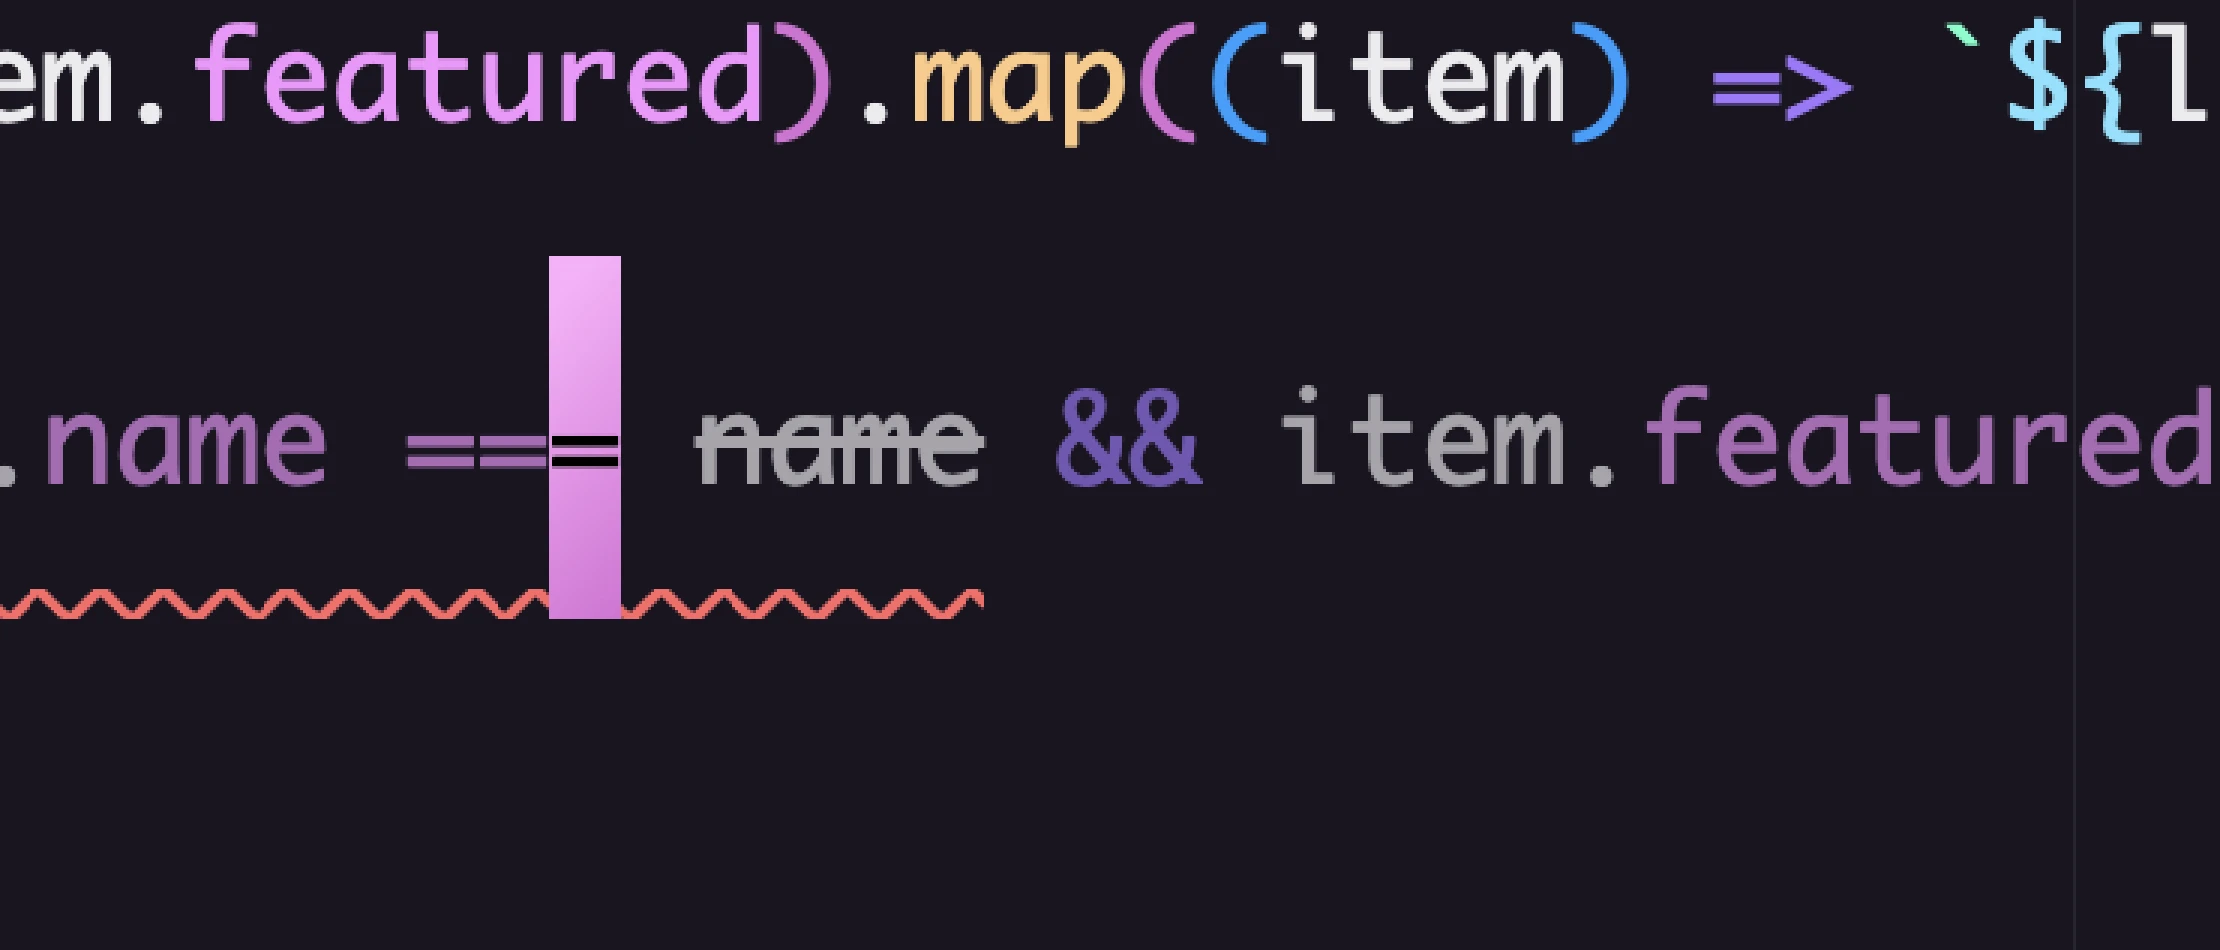
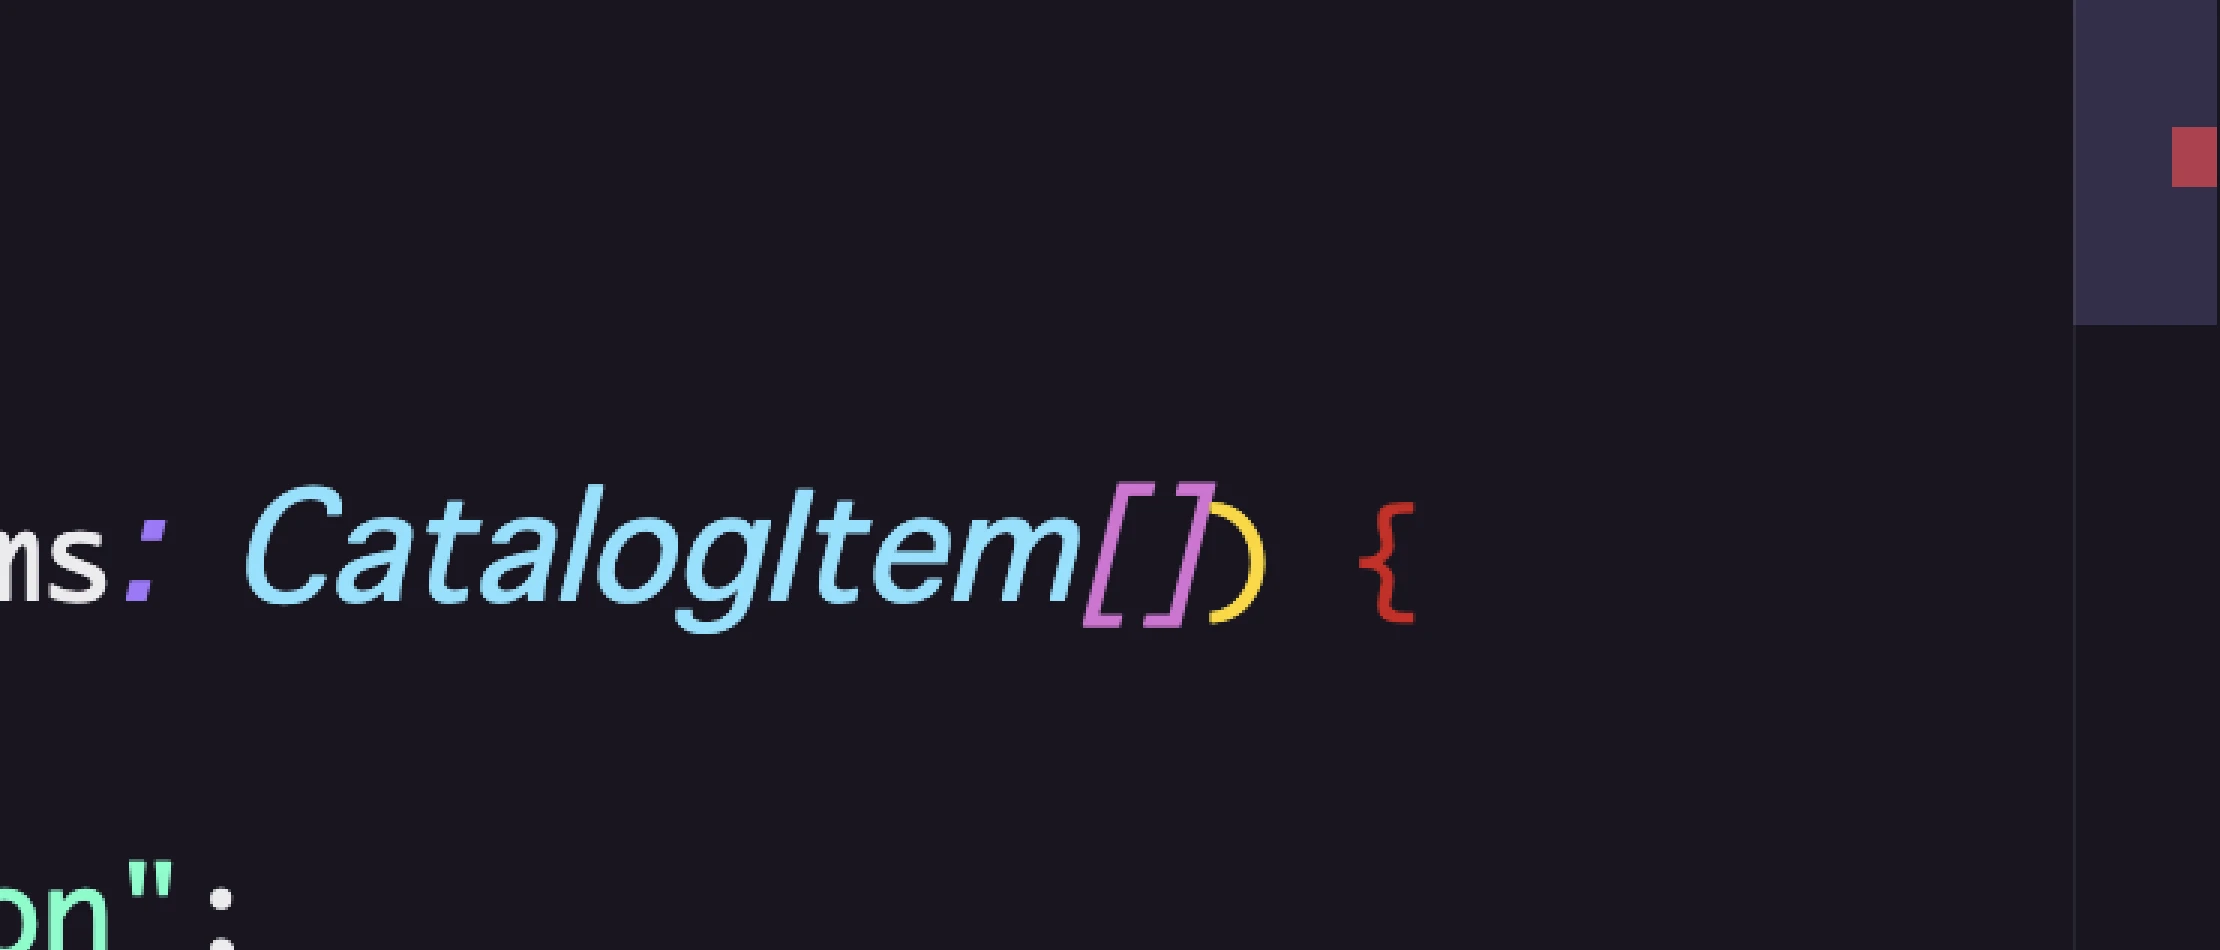
fix: align chapter 9 Git marker comparison

diff --git a/books/igorbabko-vscode-setup-2025/09-scrollbars.md b/books/igorbabko-vscode-setup-2025/09-scrollbars.md
@@ -98,9 +98,9 @@ https://www.youtube.com/watch?v=VmFOsK7IhI4&t=1851s
 
 | Before | After |
 | --- | --- |
-| ![追加・変更・削除行の Git マーカーが表示されたルーラー拡大](/images/igorbabko-vscode-setup-2025/ch09-git-diff-markers-before.webp) | ![追加・変更・削除行の Git マーカーが透明化されて消えたルーラー拡大](/images/igorbabko-vscode-setup-2025/ch09-git-diff-markers-after.webp) |
+| ![右端に黄色のバーと赤色のバーが表示されたルーラー拡大](/images/igorbabko-vscode-setup-2025/ch09-git-diff-markers-before.webp) | ![黄色のバーが消え、赤色のバーが残ったルーラー拡大](/images/igorbabko-vscode-setup-2025/ch09-git-diff-markers-after.webp) |
 
-左に表示されていた追加・変更・削除行の Git マーカーが右ではすべて消えます。なお、この比較では確認のため `scm.diffDecorations` を一時的に有効へ戻しており、第 7 章の設定を適用した状態ではこれらの Git マーカーはすでに非表示です。
+左の右端に表示されていた黄色と赤色のバーのうち、右では黄色のバーが消え、赤色のバーは残ります。なお、この比較では確認のため `scm.diffDecorations` を一時的に `all` へ戻しており、第 7 章の設定を適用した状態ではこれらの Git マーカーはすでに非表示です。
 
 | Before | After |
 | --- | --- |
